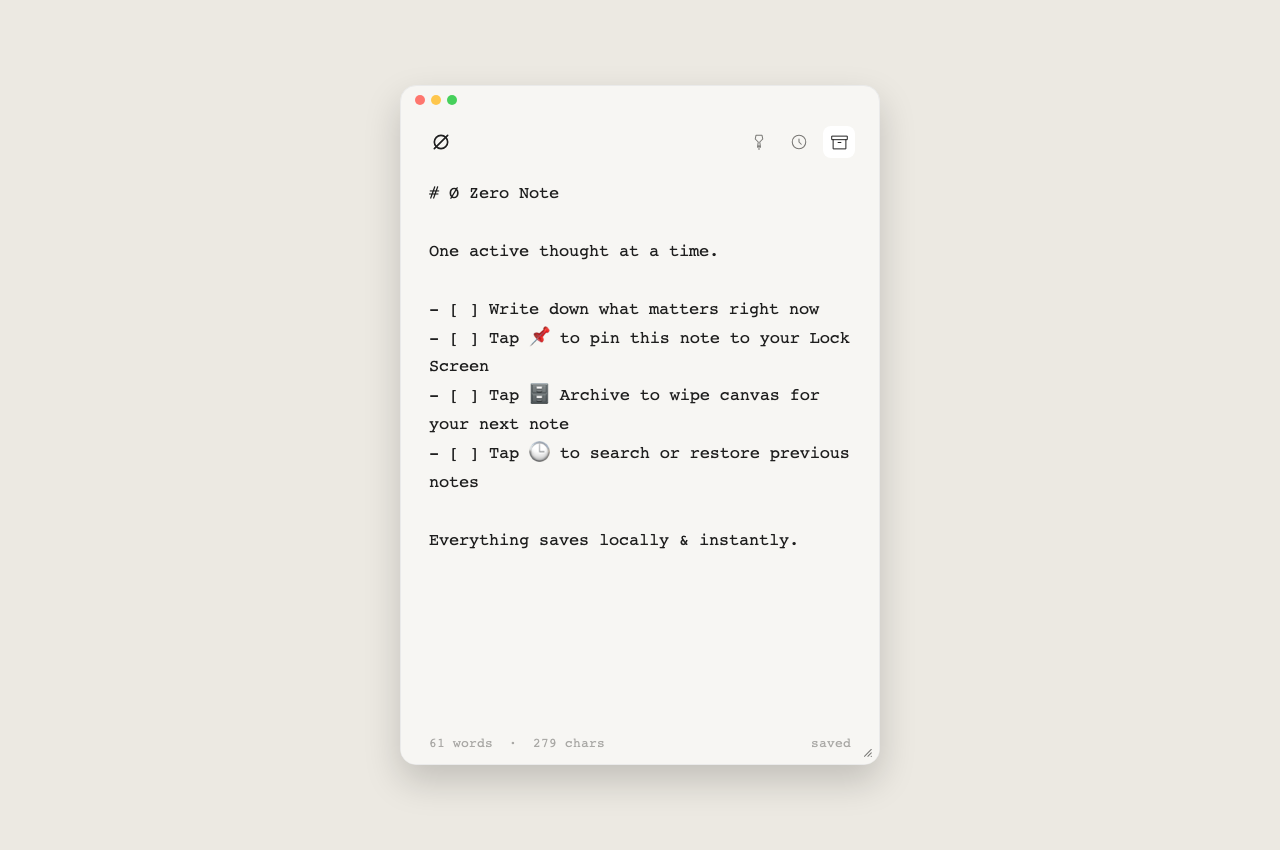
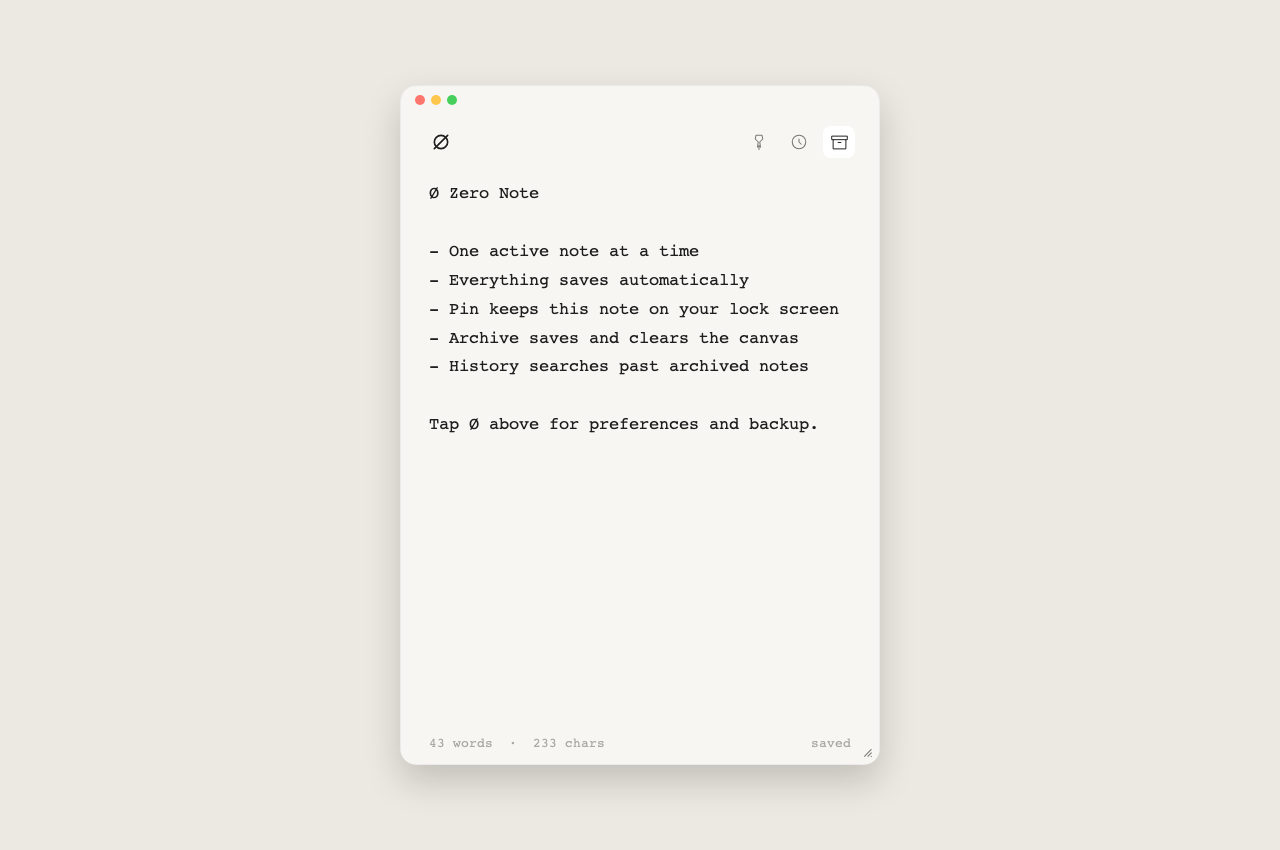
refactor: remove all emojis from onboarding text and settings for pure typographic minimalism

diff --git a/src/screens/SettingsScreen.tsx b/src/screens/SettingsScreen.tsx
@@ -76,7 +76,7 @@ export const SettingsScreen: React.FC<SettingsScreenProps> = ({ onClose }) => {
 
   const handleReloadGuide = () => {
     triggerHaptic();
-    Alert.alert('Reload Guide Note', 'Restore the initial checklist guide note into your active canvas?', [
+    Alert.alert('Reload Guide Note', 'Restore the initial guide note into your active canvas?', [
       { text: 'Cancel', style: 'cancel' },
       {
         text: 'Reload Guide',
@@ -157,7 +157,7 @@ export const SettingsScreen: React.FC<SettingsScreenProps> = ({ onClose }) => {
           </Text>
           <View style={[styles.infoCard, { backgroundColor: theme.card, borderColor: theme.border }]}>
             <Text style={[styles.infoText, { color: theme.textSecondary, fontFamily, fontSize: typeScale.caption }]}>
-              Tap the 📌 icon in the top header to keep your single active note pinned on your Android Lock Screen.
+              Tap the pin icon in the top header to keep your single active note pinned on your Android Lock Screen.
             </Text>
           </View>
         </View>

diff --git a/src/services/storage.ts b/src/services/storage.ts
@@ -8,16 +8,15 @@ const STORAGE_KEYS = {
   PREFERENCES: '@zeronote:preferences',
 };
 
-export const ONBOARDING_NOTE_CONTENT = `# Ø Zero Note
+export const ONBOARDING_NOTE_CONTENT = `Ø Zero Note
 
-One active thought at a time.
+- One active note at a time
+- Everything saves automatically
+- Pin keeps this note on your lock screen
+- Archive saves and clears the canvas
+- History searches past archived notes
 
-- [ ] Write down what matters right now
-- [ ] Tap 📌 to pin this note to your Lock Screen
-- [ ] Tap 🗄 Archive to wipe canvas for your next note
-- [ ] Tap 🕒 to search or restore previous notes
-
-Everything saves locally & instantly.`;
+Tap Ø above for preferences and backup.`;
 
 function generateId(): string {
   return `${Date.now()}-${Math.random().toString(36).substring(2, 9)}`;

diff --git a/tests/services/storage.test.ts b/tests/services/storage.test.ts
@@ -6,11 +6,11 @@ describe('StorageService', () => {
   });
 
   it('saves and retrieves active note', async () => {
-    const note = await storageService.saveActiveNote('Buy groceries\n- [ ] Milk');
-    expect(note.content).toBe('Buy groceries\n- [ ] Milk');
+    const note = await storageService.saveActiveNote('Buy groceries\n- Milk');
+    expect(note.content).toBe('Buy groceries\n- Milk');
 
     const retrieved = await storageService.getActiveNote();
-    expect(retrieved.content).toBe('Buy groceries\n- [ ] Milk');
+    expect(retrieved.content).toBe('Buy groceries\n- Milk');
   });
 
   it('archives active note and resets active note to blank', async () => {
